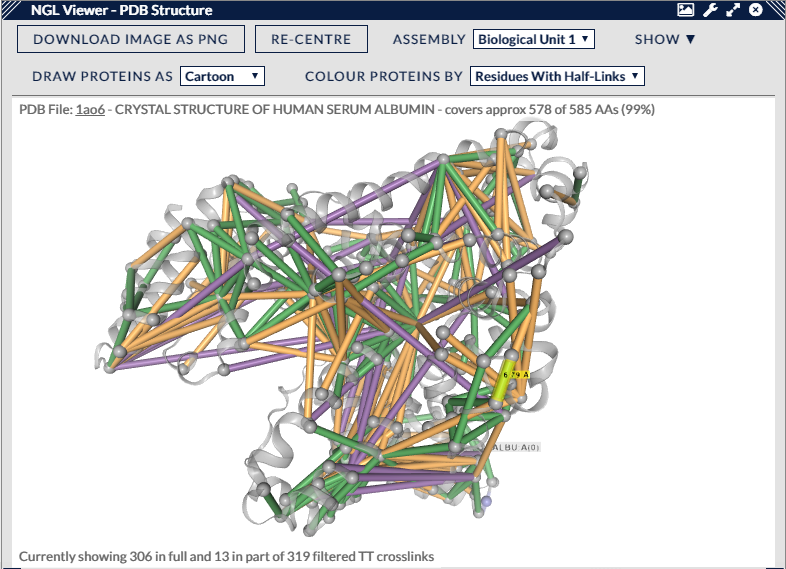
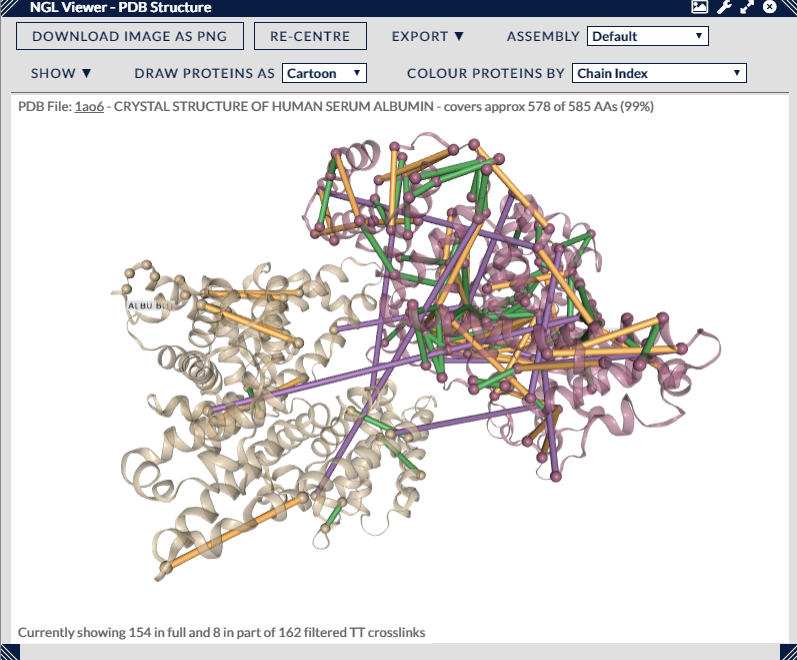
update 3dngl page

diff --git a/html/views/3dngl.html b/html/views/3dngl.html
@@ -43,7 +43,7 @@
 <p>The choice of assembly is important as it also usually constrains the PDB sub-structure on which cross-link distances will be calculated. For instance with PDB 1AO6, choosing to display the full PDB (two adjacent copies of the same protein) will look for possible cross-links within <em>and between</em> those two proteins. Choosing to display just one of the proteins (Bio-Assembly 1 or 2) will limit cross-link calculation to within just this protein.</p>
 <p>The second, &quot;Draw Proteins&quot;, changes the style of the protein representation. The default is &quot;Cartoon&quot; with other styles described here --&gt; <a href="%22http://nglviewer.org/ngl/api/manual/molecular-representations.html%22">NGL Representation Styles</a>. In practice, they range from atom-level representations like &quot;Point&quot; or &quot;Ball+Stick&quot; to more abstract representations such as &quot;Rope&quot; or &quot;Cartoon&quot;.</p>
 <p>The third selection dropdown, &quot;Colour Proteins&quot;, controls the colouring of the protein representations. They range from the default &quot;Uniform&quot; grey colouring to colour schemes that change on a per-atom or per-residue basis such as &quot;Element&quot; or &quot;Residue Name&quot;. Consequently, some colour schemes are only useful in conjunction with given representation styles e.g. the &quot;Element&quot; colour scheme works with &quot;Ball+Stick&quot; but has no effect in the &quot;Cartoon&quot; representation. A full list of NGL colour schemes can be found here --&gt; <a href="%22http://nglviewer.org/ngl/api/manual/coloring.html%22">NGL Colour Schemes</a>. There is one XiView specific scheme - &quot;Residues with Half-Links&quot; - that highlights residues that form one end of a cross-link where the other end is out of scope of the PDB structure.</p>
-<p>A final drop-down menu, &quot;Show&quot;, holds several options for setting various decorations on the protein structure, and some options for controlling how cross-links are superimposed upon the structure.</p>
+<p>Another drop-down menu, &quot;Show&quot;, holds several options for setting various decorations on the protein structure, and some options for controlling how cross-links are superimposed upon the structure.</p>
 <p>For cross-links there are two independent options, we can:</p>
 <ol>
 <li>Show selected cross-links only - this reduces clutter and selected cross-links aren't obscured by unselected cross-links, which is particularly noticeable in 3D.</li>
@@ -56,6 +56,18 @@
 <li>Show All Proteins - show proteins in multiple protein PDBs that aren't potentially involved in the current set of filtered cross-links.</li>
 <li>Show Distance Labels - displayed cross-links are annotated with a small label showing their length in Angstroms. These show up regardless for selected or highlighted cross-links.</li>
 <li>Protein Chain Label Style - Long, Short, None, Fixed Size - a set of radio buttons for deciding the content of the label annotating each protein. Long for a verbose description which NGL pulls from the PDB file (plus the short description), short for a label with the protein name and chain index, and none to remove these labels altogether. A final checkbox, &quot;Fixed Size&quot;, determines whether these labels stay a fixed size when the structure is zoomed in or out.</li>
+</ul>
+<p>Finally, the &quot;Export&quot; dropdown offers three options for exporting various parts of the PDB/cross-links combinations.</p>
+<ul>
+<li>
+<p>PDB &amp; Cross-Links - Exports a basic copy of the PDB file (ATOM records only) with a number of LINK and CONECT files that represent cross-links that can be fully plotted within the structure. Since this is a PDB file, there is a limit of 100,000 atoms and structures with more than one model (NGL fuses PDBs by giving them different model indices) cannot have their inter-model cross-links successfully exported. This can be used in various molecule viewers but usually requires trial and error to figure out how to get the cross-links to appear in each one.</p>
+</li>
+<li>
+<p>Pymol Command File - Exports a Pymol command file that will reload and render the cross-links in the Pymol viewer. This supports multiple PDB files and inter-model/PDB cross-links, but obviously is limited to Pymol only.</p>
+</li>
+<li>
+<p>Haddock Distance Restraints File - for us with the <a href="https://haddock.science.uu.nl/services/HADDOCK2.2/">HADDOCK</a> structure docker, this exports all the inter-model cross-links in a format compatible with the HADDOCK tool. These inter-model cross-links tend to be those we know exist between two pdb files, but since we cannot be sure of the PDB's relative orientation their distances are meaningless. However, HADDOCK can use their existence and restrictions based on cross-linker length to calculate the correct (or near to) orientation.</p>
+</li>
 </ul>
 <p>There is one remaining button which sits by itself, &quot;Download Image as PNG&quot;, which will download a PNG (bitmap format) file of the current state of the 3D view. A vector graphic format is not available for this view. The filename will include information on search id and current filter settings.</p>
 <h3>References</h3>

diff --git a/md/views/3dngl.md b/md/views/3dngl.md
@@ -48,7 +48,7 @@ The second, "Draw Proteins", changes the style of the protein representation. Th
 
 The third selection dropdown, "Colour Proteins", controls the colouring of the protein representations. They range from the default "Uniform" grey colouring to colour schemes that change on a per-atom or per-residue basis such as "Element" or "Residue Name". Consequently, some colour schemes are only useful in conjunction with given representation styles e.g. the "Element" colour scheme works with "Ball+Stick" but has no effect in the "Cartoon" representation. A full list of NGL colour schemes can be found here --> [NGL Colour Schemes]("http://nglviewer.org/ngl/api/manual/coloring.html"). There is one XiView specific scheme - "Residues with Half-Links" - that highlights residues that form one end of a cross-link where the other end is out of scope of the PDB structure.
 
-A final drop-down menu, "Show", holds several options for setting various decorations on the protein structure, and some options for controlling how cross-links are superimposed upon the structure.
+Another drop-down menu, "Show", holds several options for setting various decorations on the protein structure, and some options for controlling how cross-links are superimposed upon the structure.
 
 For cross-links there are two independent options, we can:
 
@@ -62,6 +62,14 @@ The other available options under "Show" are
 * Show All Proteins - show proteins in multiple protein PDBs that aren't potentially involved in the current set of filtered cross-links. 
 * Show Distance Labels - displayed cross-links are annotated with a small label showing their length in Angstroms. These show up regardless for selected or highlighted cross-links.
 * Protein Chain Label Style - Long, Short, None, Fixed Size - a set of radio buttons for deciding the content of the label annotating each protein. Long for a verbose description which NGL pulls from the PDB file (plus the short description), short for a label with the protein name and chain index, and none to remove these labels altogether. A final checkbox, "Fixed Size", determines whether these labels stay a fixed size when the structure is zoomed in or out.
+
+Finally, the "Export" dropdown offers three options for exporting various parts of the PDB/cross-links combinations.
+
+* PDB & Cross-Links - Exports a basic copy of the PDB file (ATOM records only) with a number of LINK and CONECT files that represent cross-links that can be fully plotted within the structure. Since this is a PDB file, there is a limit of 100,000 atoms and structures with more than one model (NGL fuses PDBs by giving them different model indices) cannot have their inter-model cross-links successfully exported. This can be used in various molecule viewers but usually requires trial and error to figure out how to get the cross-links to appear in each one.
+
+* Pymol Command File - Exports a Pymol command file that will reload and render the cross-links in the Pymol viewer. This supports multiple PDB files and inter-model/PDB cross-links, but obviously is limited to Pymol only.
+
+* Haddock Distance Restraints File - for us with the [HADDOCK](https://haddock.science.uu.nl/services/HADDOCK2.2/) structure docker, this exports all the inter-model cross-links in a format compatible with the HADDOCK tool. These inter-model cross-links tend to be those we know exist between two pdb files, but since we cannot be sure of the PDB's relative orientation their distances are meaningless. However, HADDOCK can use their existence and restrictions based on cross-linker length to calculate the correct (or near to) orientation.
 
 There is one remaining button which sits by itself, "Download Image as PNG", which will download a PNG (bitmap format) file of the current state of the 3D view. A vector graphic format is not available for this view. The filename will include information on search id and current filter settings.
 
